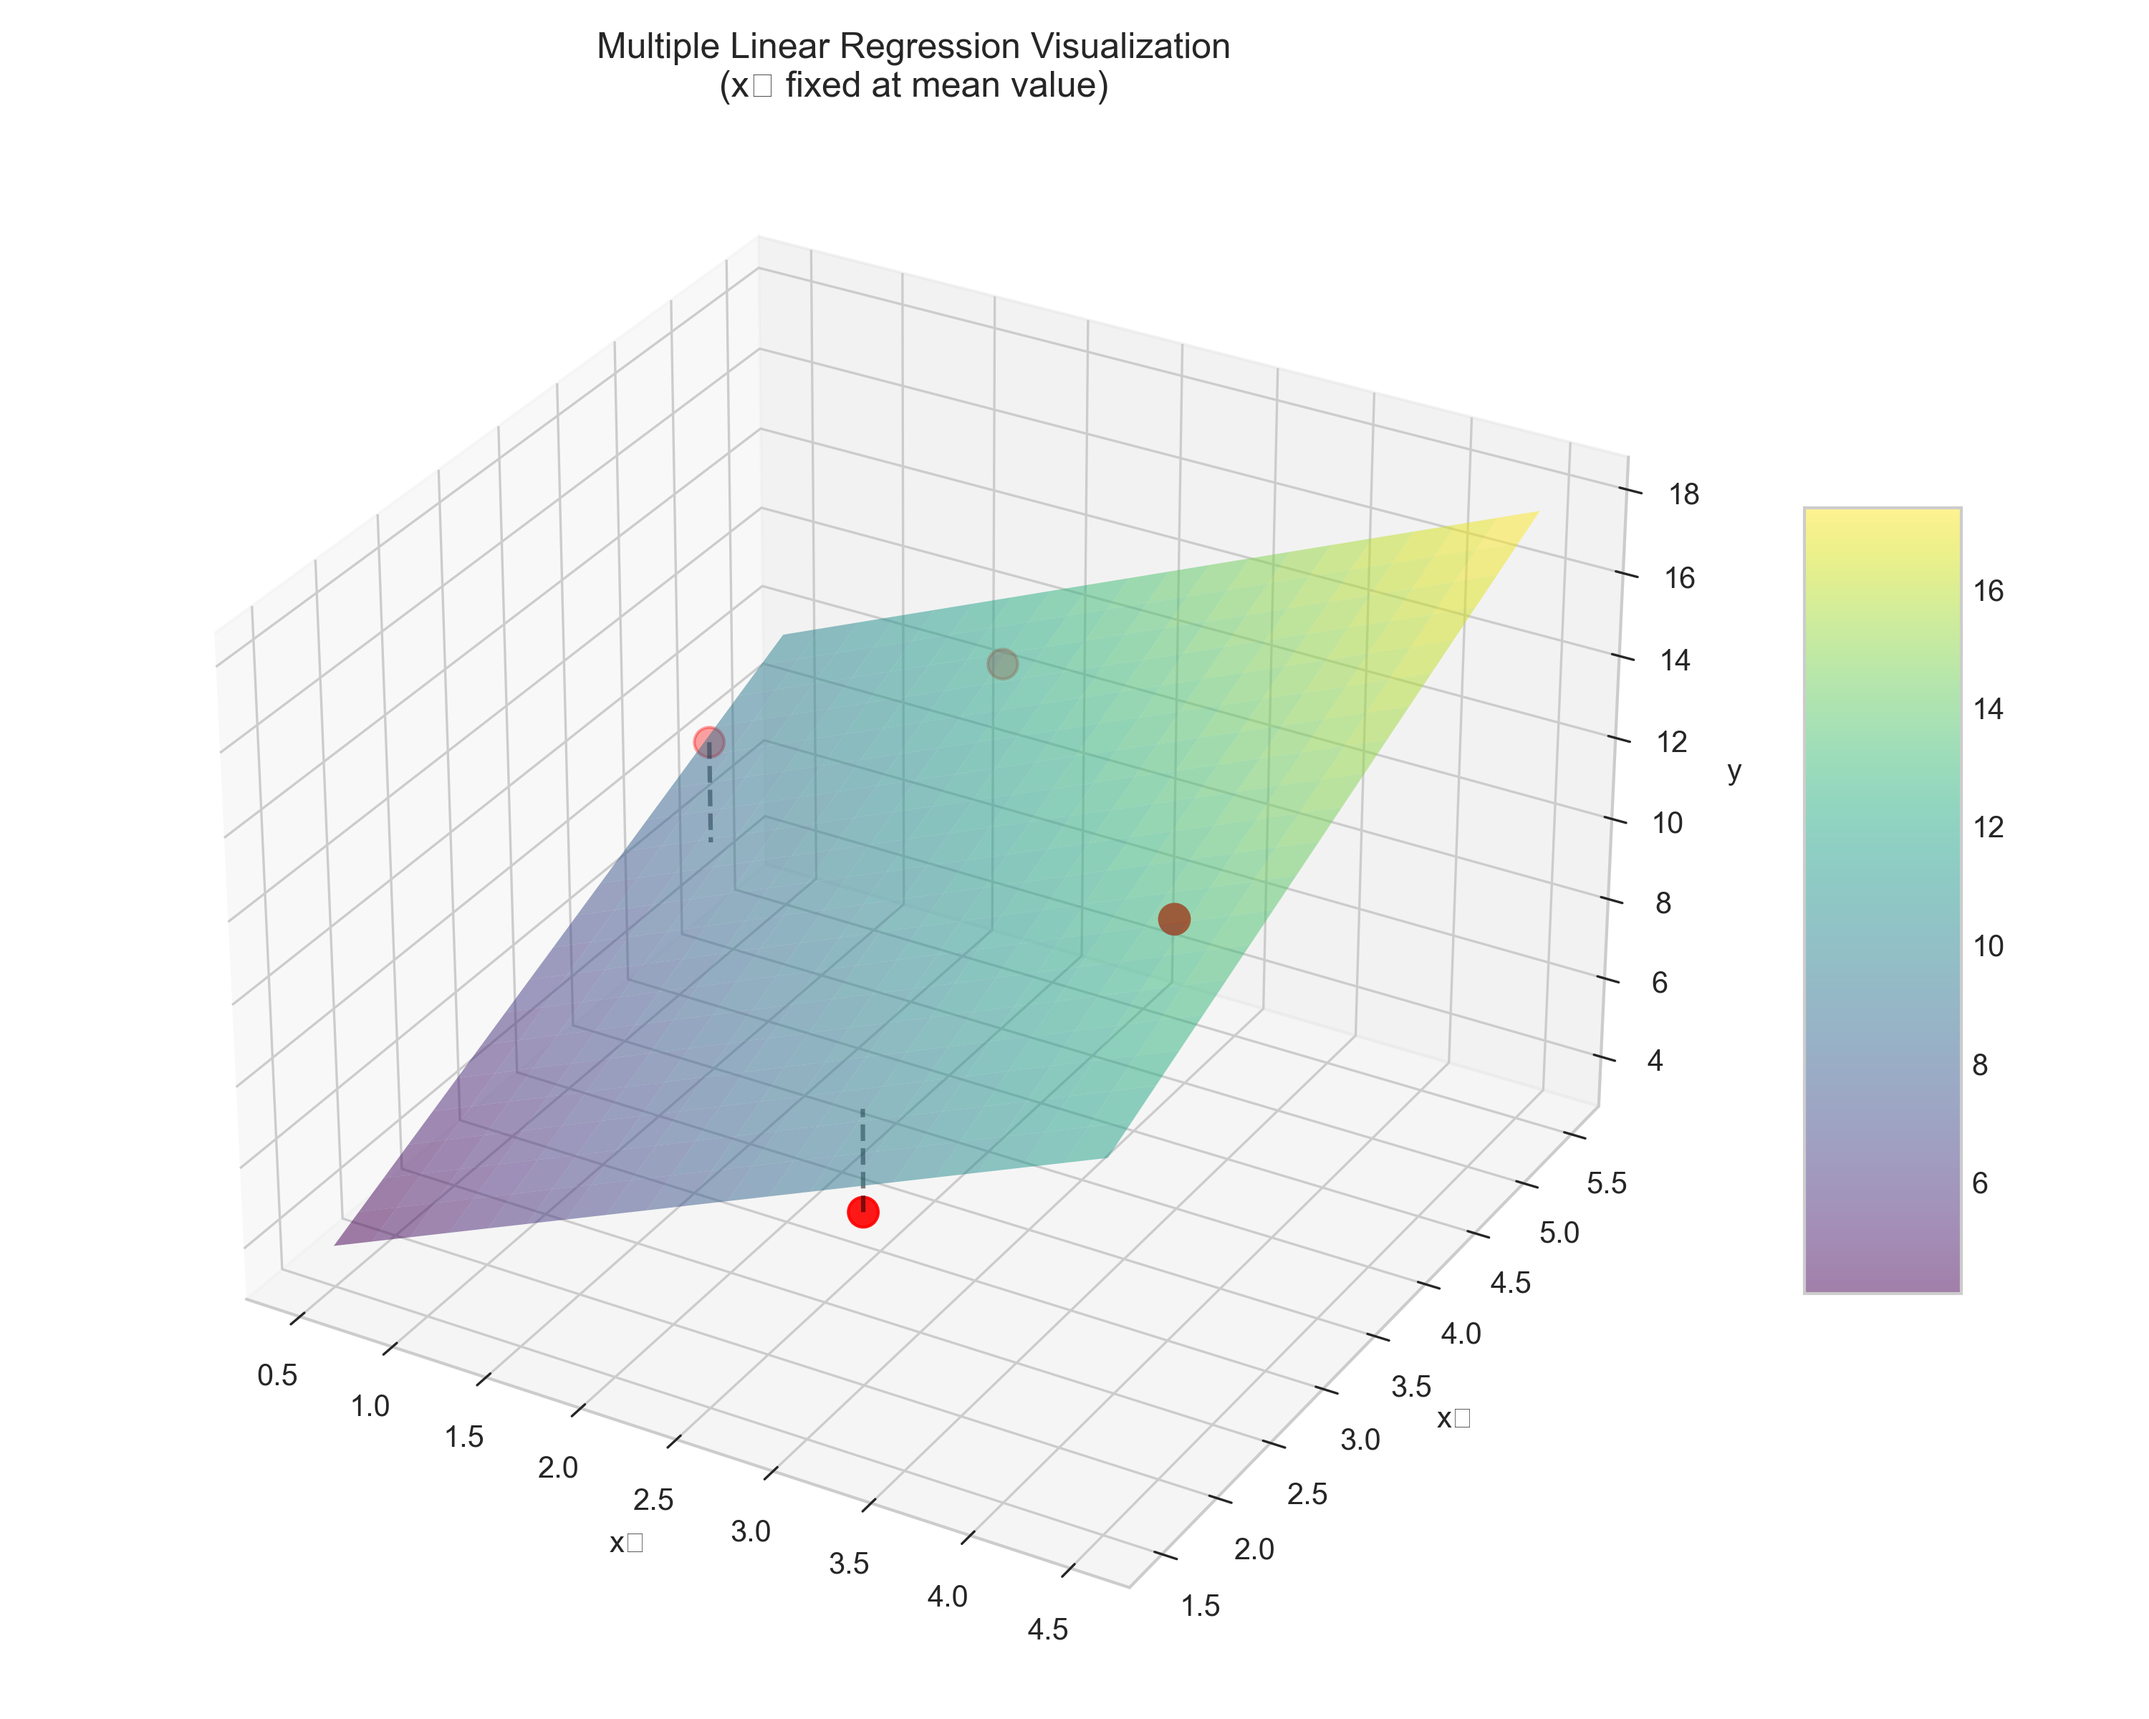
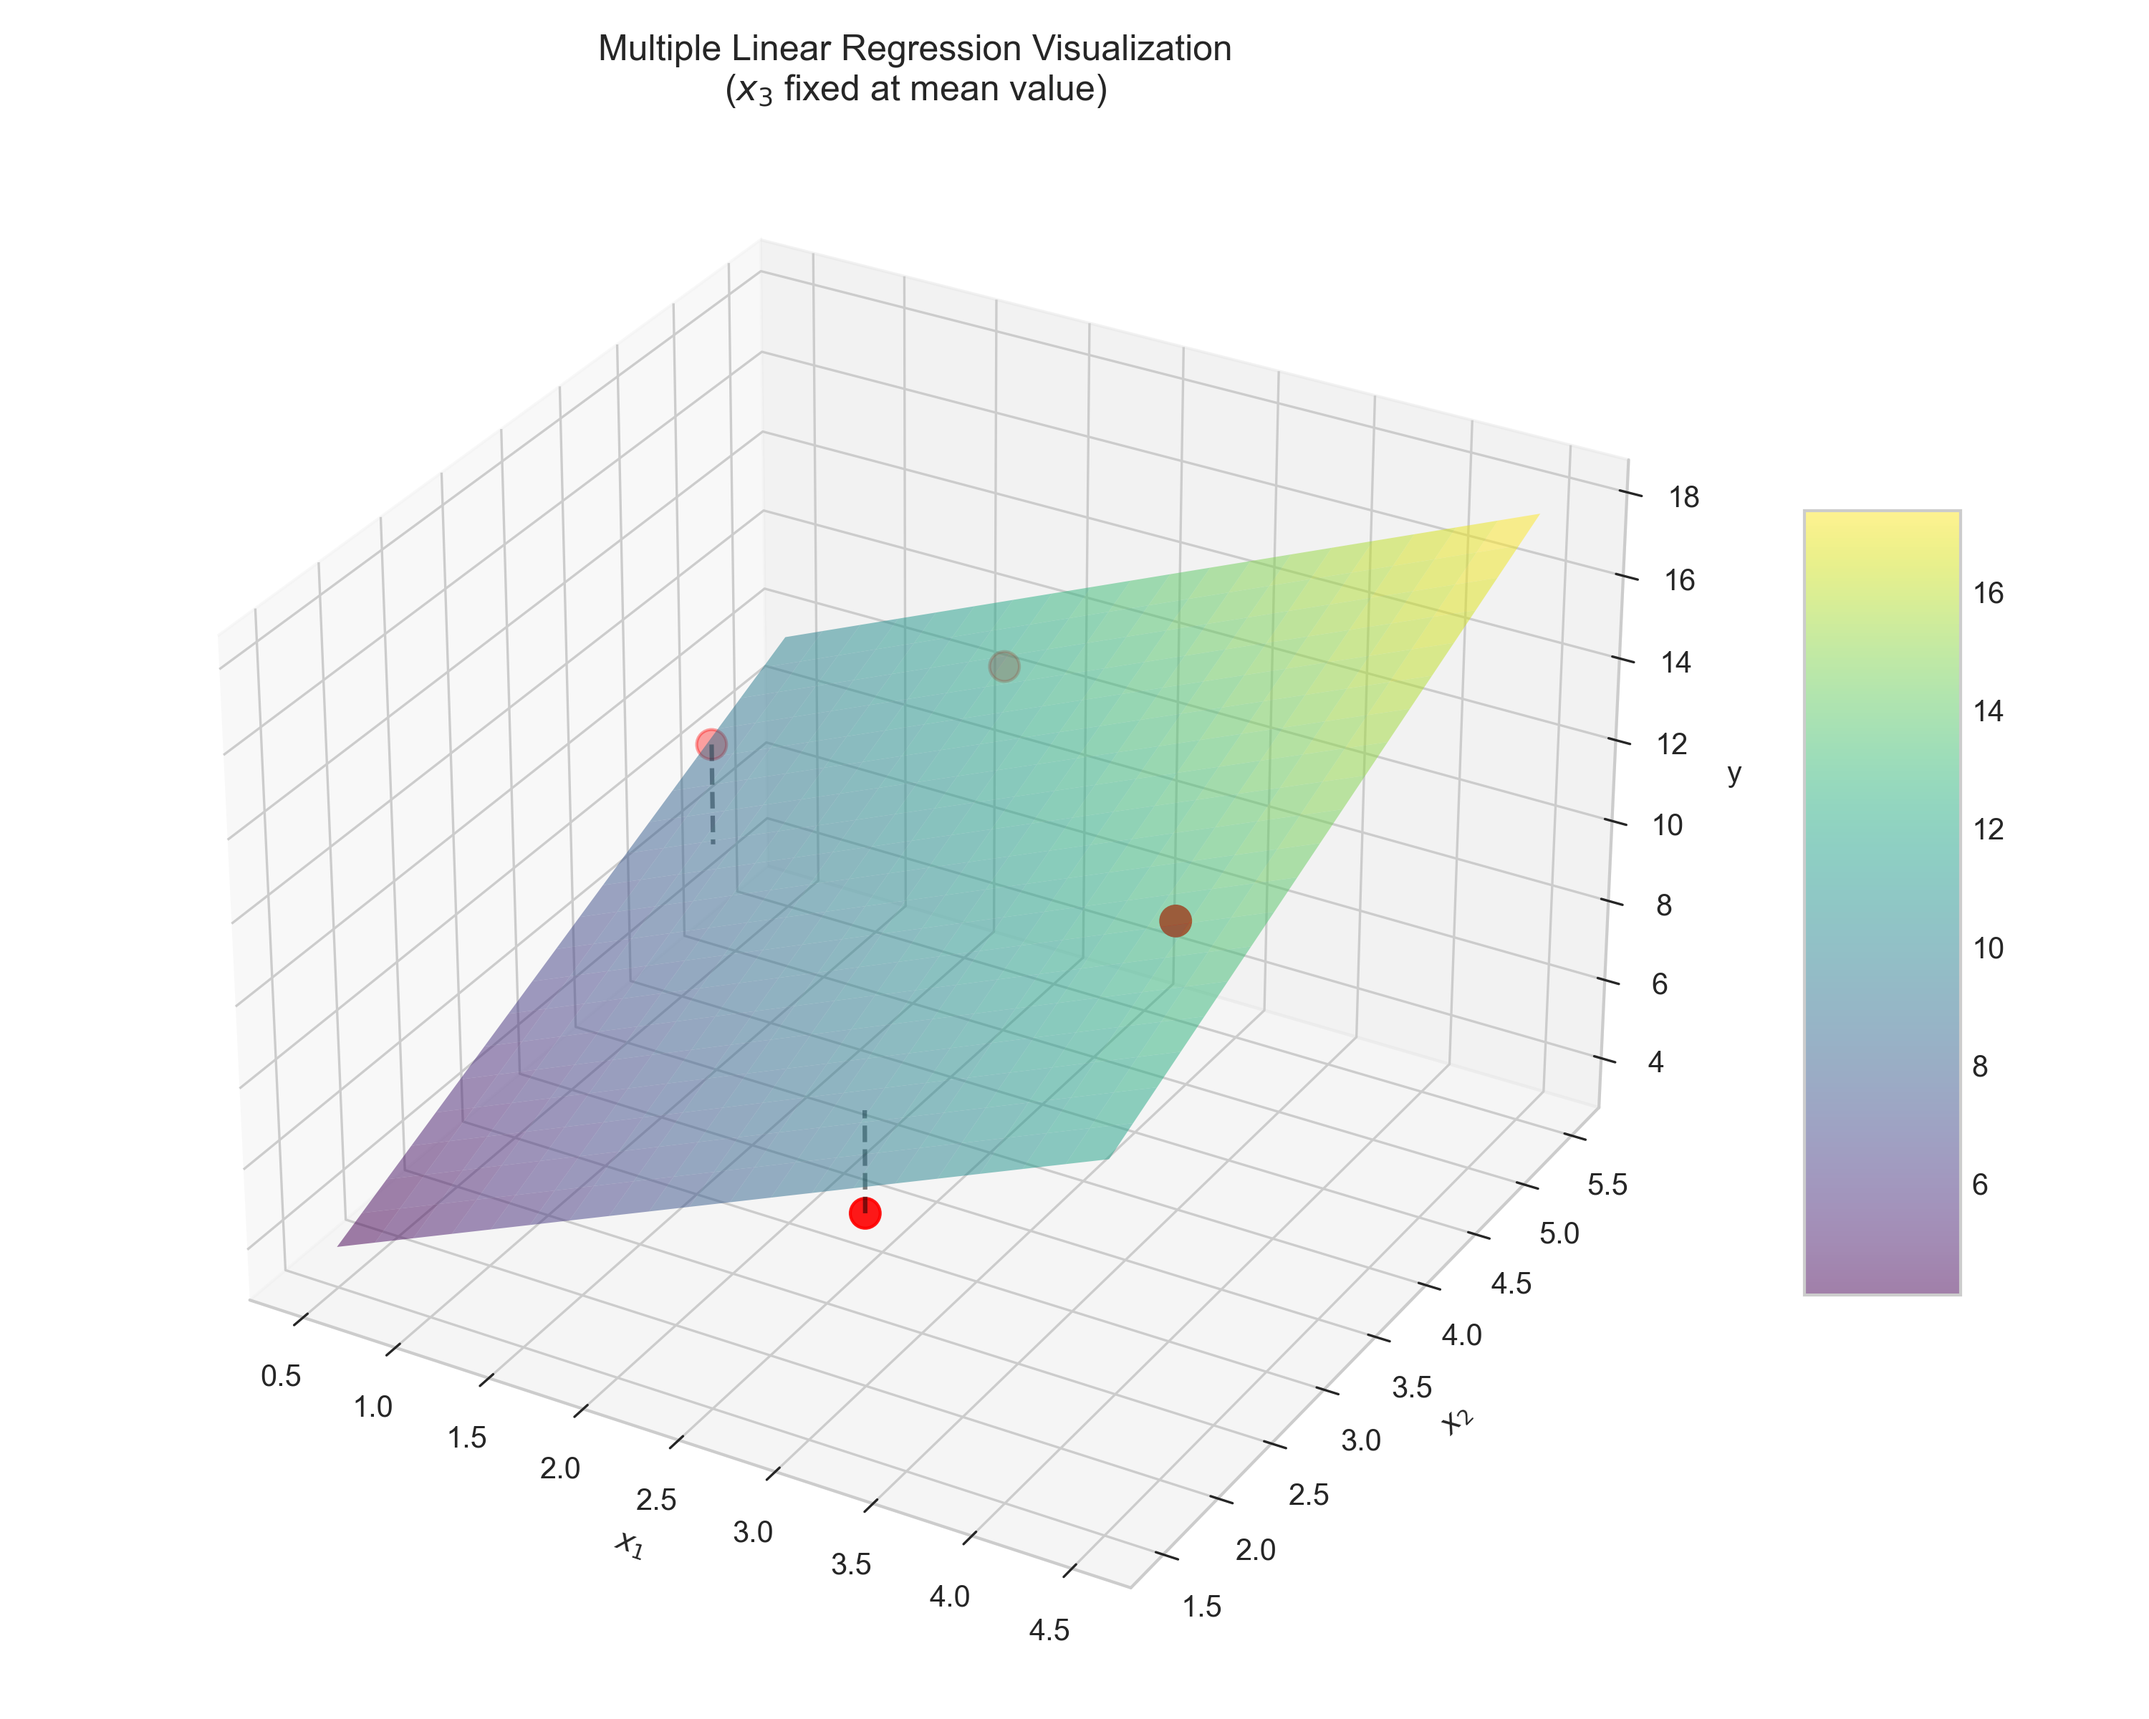
fix

diff --git a/ML_Obsidian_Vault/Lectures/3/Codes/L3_4_1_solution.py b/ML_Obsidian_Vault/Lectures/3/Codes/L3_4_1_solution.py
@@ -223,10 +223,10 @@ def evaluate_model(w):
         ax.plot([x1[i], x1[i]], [x2[i], x2[i]], [y[i], pred_z], 'k--', alpha=0.5)
     
     # Set labels and title
-    ax.set_xlabel('x₁')
-    ax.set_ylabel('x₂')
+    ax.set_xlabel('$x_1$')
+    ax.set_ylabel('$x_2$')
     ax.set_zlabel('y')
-    ax.set_title('Multiple Linear Regression Visualization\n(x₃ fixed at mean value)')
+    ax.set_title('Multiple Linear Regression Visualization\n($x_3$ fixed at mean value)')
     
     # Add a colorbar
     fig.colorbar(surf, ax=ax, shrink=0.5, aspect=5)
